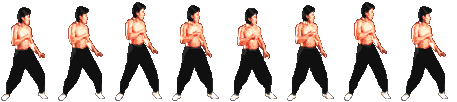
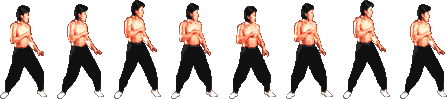
liu kang special move

diff --git a/attack_list.py b/attack_list.py
@@ -8,42 +8,31 @@ attack_Sub_Zero = {'Апперкот': 'вниз + высокий удар',
                    'Подножка': 'назад + низкий удар',
                    'Удар наотмашь': 'назад + высокий удар',
                    'Бросок противника': 'вперёд, низкий удар',
-                   'Ледяной шар': 'вниз, вперед, низкий удар',
-                   'Слайд': 'назад + низкий удар ногой + высокий удар ногой',
-                   'Фаталити': 'вперед, вниз, вперед, высокий удар'}
+                   'Слайд': 'назад + низкий удар ногой + высокий удар ногой'}
 
 attack_Scorpion = {'Апперкот': 'вниз + высокий удар',
                    'Подножка': 'назад + низкий удар',
                    'Удар наотмашь': 'назад + высокий удар',
                    'Бросок противника': 'вперёд, низкий удар',
-                   'Ручное копье': 'назад, назад, низкий удар',
-                   'Телепорт пунш': 'вниз, назад, низкий удар',
-                   'Фаталити': 'вверх, вверх'}
+                   'Телепорт': 'вниз, назад, низкий удар'}
 
 attack_Liu_Kang = {'Апперкот': 'вниз + высокий удар',
                    'Подножка': 'назад + низкий удар',
                    'Удар наотмашь': 'назад + высокий удар',
                    'Бросок противника': 'вперёд, низкий удар',
-                   'Огненный шар': 'вперед, вперед, высокий удар',
-                   'Супер удар ногой': 'вперед, вперед, высокий удар ногой',
-                   'Фаталити': 'Вперед, Вниз, Назад, Вверх'}
+                   'Супер удар ногой': 'вниз, вперед, высокий удар ногой'}
 
 attack_Johnny_Cage = {'Апперкот': 'вниз + высокий удар',
                       'Подножка': 'назад + низкий удар',
                       'Удар наотмашь': 'назад + высокий удар',
                       'Бросок противника': 'вперёд, низкий удар',
-                      'Теневой удар ногой': 'назад, вперед, низкий удар ногой',
-                      'Энергетический шар': 'назад, вперед, вниз + высокий удар ногой',
-                      'Фаталити': 'вперед, вперед, вперед, высокий удар'}
+                      'Теневой удар ногой': 'назад, вперед, низкий удар ногой'}
 
 attack_Sonya = {'Апперкот': 'вниз + высокий удар',
                 'Подножка': 'назад + низкий удар',
                 'Удар наотмашь': 'назад + высокий удар',
                 'Бросок противника': 'вперёд, низкий удар',
-                'Энергетические кольца': 'высокий удар, назад, высокий удар',
-                'Бросок ногой': 'вниз + низкий удар + низкий удар ногой',
-                'Летящий удар': 'Вперед, Назад, Высокий Удар',
-                'Фаталити': 'вперед, вперед, назад, назад, блок'}
+                'Бросок ногой': 'вниз + низкий удар + низкий удар ногой'}
 
 
 class AttackExecution(pygame.sprite.Sprite):

diff --git a/lu_kang_animation_settings.py b/lu_kang_animation_settings.py
@@ -1,10 +1,10 @@
-liu_kang_move_animations = {'stand': [8, [55, 55, 59, 59, 55, 55, 55, 48], [1] * 8, [0, 7], True, False],
+liu_kang_move_animations = {'stand': [8, [57, 57, 57, 58, 57, 57, 57, 47], [1] * 8, [0, 7], True, False],
                             'walk_f': [9, [54, 46, 44, 42, 44, 47, 45, 45, 38], [1] * 9, [0, 8], True, False],
                             'walk_b': [9, [54, 46, 44, 42, 44, 47, 45, 45, 38], [1] * 9, [0, 8], True, False],
                             'jump': [4, [59, 55, 60, 45], [3, 3, 5, 3], [0, 3],  False, False],
-                            'move_jump': [9, [43, 43, 50, 54, 51, 41, 46, 56, 41], [1] * 9, [1, 8], False, False],
+                            'move_jump': [9, [44, 39, 49, 55, 52, 41, 46, 56, 41], [1] * 9, [1, 8], False, False],
                             'duck': [3, [57, 59, 48], [1] * 5, [2, 2], False, False],
-                            'block': [1, [44], [1], [0, 0], False, False],
+                            'block': [1, [42], [1], [0, 0], False, False],
 
                             'low_punch': [3, [65, 63, 74], [1, 1, 5], [], False, [[2], 'weak_hit', 30, [4, 0]]],
                             'high_punch': [3, [57, 64, 70], [1, 1, 5], [], False, [[2], 'weak_hit', 30, [4, 0]]],
@@ -14,21 +14,24 @@ liu_kang_move_animations = {'stand': [8, [55, 55, 59, 59, 55, 55, 55, 48], [1] *
                                           [[4], 'weak_hit', 50, [6, 0]]],
                             'uppercut': [6, [55, 66, 65, 45, 63, 44], [1, 1, 1, 6, 1, 1], [], False,
                                         [[2, 3, 4], 'heavy_hit', 60, [10, -20]]],
-                            'sweep_kick': [7, [60, 56, 74, 87, 43, 69, 46], [1] * 7, [], False,
+                            'sweep_kick': [7, [59, 57, 73, 87, 43, 69, 44], [1] * 7, [], False,
                                            [[3, 4], 'trip', 40, [0, 0]]],
-                            'roundhouse': [7, [73, 58, 48, 67, 49, 56, 46], [1] * 7, [], False,
+                            'roundhouse': [7, [73, 58, 47, 66, 47, 54, 44], [1] * 7, [], False,
                                           [[2, 3], 'heavy_hit', 70, [10, -20]]],
-                            'air_kick': [2, [62, 72], [3, 3], [], False, [[1], 'heavy_hit', 40, [7, 0]]],
-                            # do this
-                            'pinwheel': [13, [64, 94, 71, 95, 70, 79, 73, 58, 70, 69, 46, 65, 48],
-                                         [1, 1, 1, 1, 3, 1, 1, 1, 1, 3, 1, 1], False, [[1], 'heavy_hit', 40, [2, -20]]],
+                            'air_kick': [2, [62, 72], [2, 2], [], False, [[1], 'weak_hit', 40, [7, 0]]],
+
+                            'throw': [8, [68, 77, 69, 67, 57, 65, 73, 51], [1] * 8, [], False,
+                                      [[2], 'thrown', 60, [-10, -25]]],
+
+                            'super_kick': [2, [62, 71], [3, 6], [], False, [[1], 'heavy_hit', 90, [8, 0]]],
+
                             'weak_hit': [5, [60, 46, 47, 62, 50], [2] * 5, [], False, False],
                             'heavy_hit': [8, [82, 86, 70, 60, 63, 59, 82, 80],
                                           [2, 5, 2, 2, 2, 2, 2, 2], [], False, False],
-                            'trip': [5, [67, 86, 68, 91, 81], [1] * 5, [], False, False],
+                            'trip': [5, [57, 84, 66, 88, 80], [1] * 5, [], False, False],
 
                             'stand_up': [7, [69, 57, 85, 71, 40, 45, 50], [1] * 7, [], False, False],
-                            'thrown': [7, [61, 73, 66, 62, 60, 84, 81], [1, 1, 1, 1, 1, 1, 10], [], False, False],
+                            'thrown': [7, [61, 71, 65, 60, 58, 82, 80], [1, 1, 1, 1, 1, 1, 7], [], False, False],
                             'dead': [7, [56, 57, 59, 58, 58, 57, 45], [2] * 7, [0, 6], False, False]
                             }
 

diff --git a/update_anim.py b/update_anim.py
@@ -26,6 +26,10 @@ def update_anim(fighter):
 
         if fighter.attack == 'high_kick' and fighter.cur_anim != 'high_kick' and fighter.on_ground:
             if fighter.previos_moves:
+                if len(fighter.previos_moves) >= 2:
+                    if fighter.previos_moves[-2][0] == 'duck' and fighter.previos_moves[-1][0] == 'walk_f' \
+                            and fighter.cur_anim != 'super_kick' and fighter.name == 'Liu Kang':
+                        fighter.set_anim('super_kick')
                 if fighter.previos_moves[-1][0] == 'walk_b' and fighter.cur_anim != 'roundhouse':
                     fighter.set_anim('roundhouse')
                 if fighter.previos_moves[-1][0] == 'sweep_kick' and fighter.cur_anim != 'slide' and fighter.name == 'Sub-Zero':

diff --git a/update_fighter_pos_y.py b/update_fighter_pos_y.py
@@ -10,7 +10,7 @@ def update_y(fighter, f=False):
         dif = [0, (540 - fighter.rect.height) - fighter.actual_coords_y]
         change_position(fighter, dif, 'all')
         fighter.actual_coords_y = 540 - fighter.rect.height
-        if fighter.cur_anim != 'slide' and fighter.cur_anim != 'leg_throw':
+        if fighter.cur_anim != 'slide' and fighter.cur_anim != 'leg_throw' and fighter.cur_anim != 'super_kick':
             fighter.vector[0] = 0
         fighter.on_ground = 1
         fighter.vector[1] = 0

diff --git a/set_char_anim.py b/set_char_anim.py
@@ -65,6 +65,12 @@ def set_char_anim(char, anim):
     if anim == 'leg_throw':
         char.frames += char.frames[::-1]
 
+    if anim == 'super_kick':
+        if char.side == 'left':
+            char.vector[0] = 10
+        else:
+            char.vector[0] = -10
+
     if char.cur_anim != 'stand':
         if char.previos_moves and char.previos_moves[-1][0] == anim:
             char.previos_moves[-1][1] = 0

diff --git a/game_cycle.py b/game_cycle.py
@@ -101,7 +101,6 @@ def game_cycle(fight_settings):
                 msg.append(effect)
         try:
             fight_settings.client_socket.send(pickle.dumps(msg))
-            print(fight_settings.char.actual_coords_x, fight_settings.char.pos_x, fight_settings.enemy.actual_coords_x, fight_settings.enemy.pos_x, fight_settings.cf.pos_x)
 
         except ConnectionResetError:
             break
